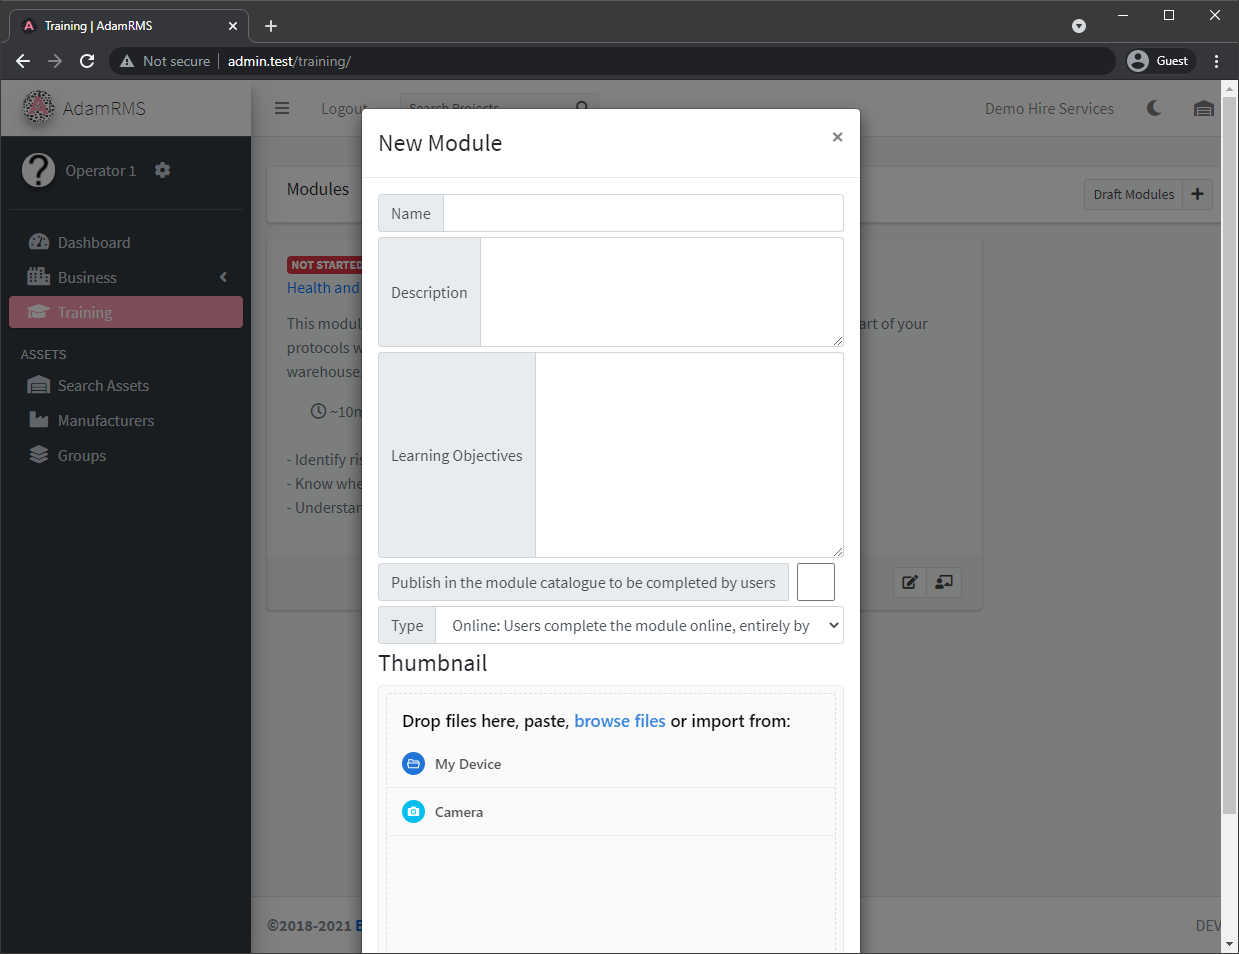
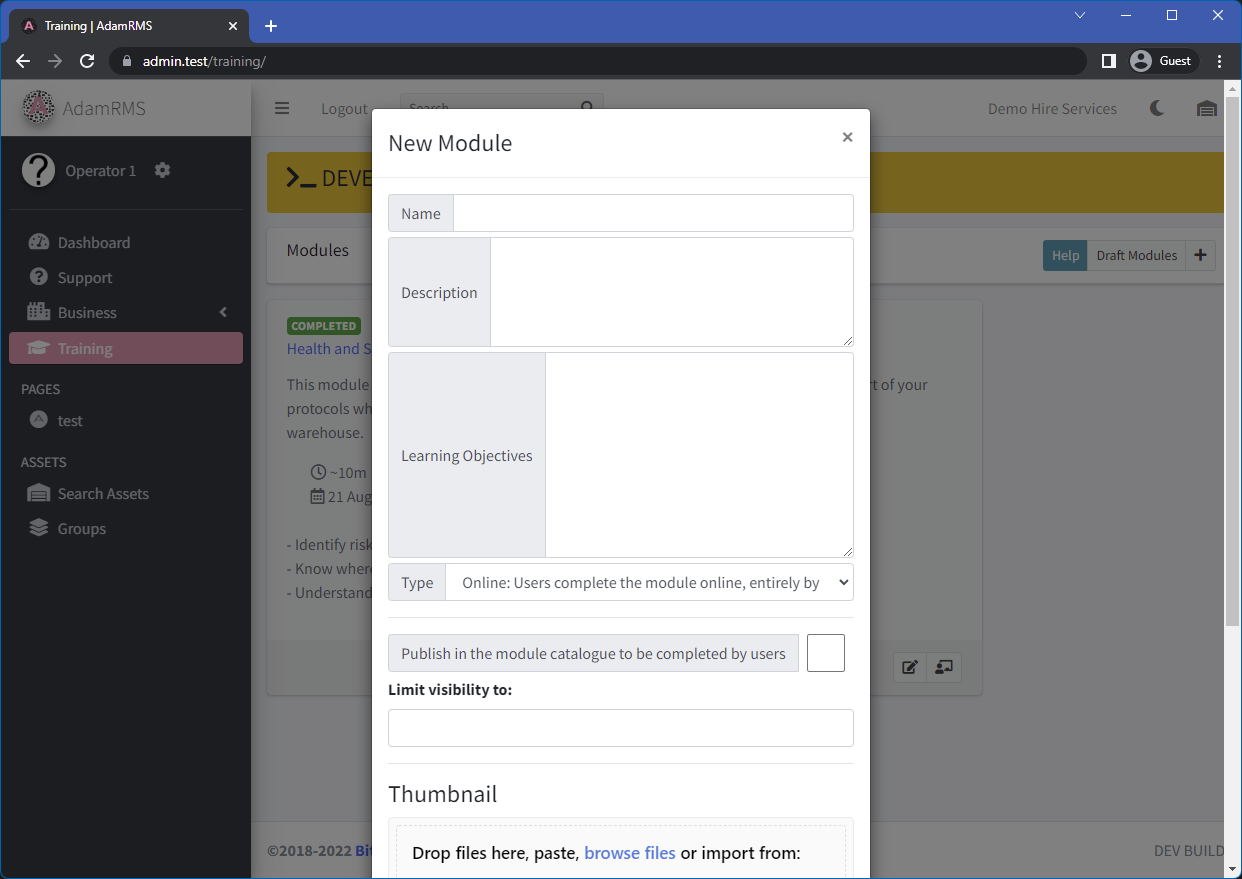
Update training module documentation

diff --git a/docs/user-guide/training/training.md b/docs/user-guide/training/training.md
@@ -6,7 +6,7 @@ title: Training
 # Training
 
 AdamRMS provides a platform to create training modules for business members.  
-Modules can be entirely online, entirely in person, or a hybrid of both.
+Modules can be entirely online, entirely in person, or a hybrid of both. You can select who has access to each training module based on their user group.
 
 :::note Training Permissions  
 113 - Access Training  	
@@ -30,12 +30,14 @@ A module contains the following basic information:
 - Module Name
 - Description
 - Learning Objectives
-- Draft Status
 - Training Type:
     - Online: Users complete the module online, entirely by themselves
     - Hybrid: Users complete the module online, and are then certified by an administrator
     - Physical: Users cannot complete the module themselves - they are certified by an administrator
 - Module Thumbnail
+- AdamRMS visibility
+    - Draft Status
+    - Limit visibility to a specific Role Group
 
 ![New training module](/img/tutorial/training/training-new.png)
 *Create a new Training module*
